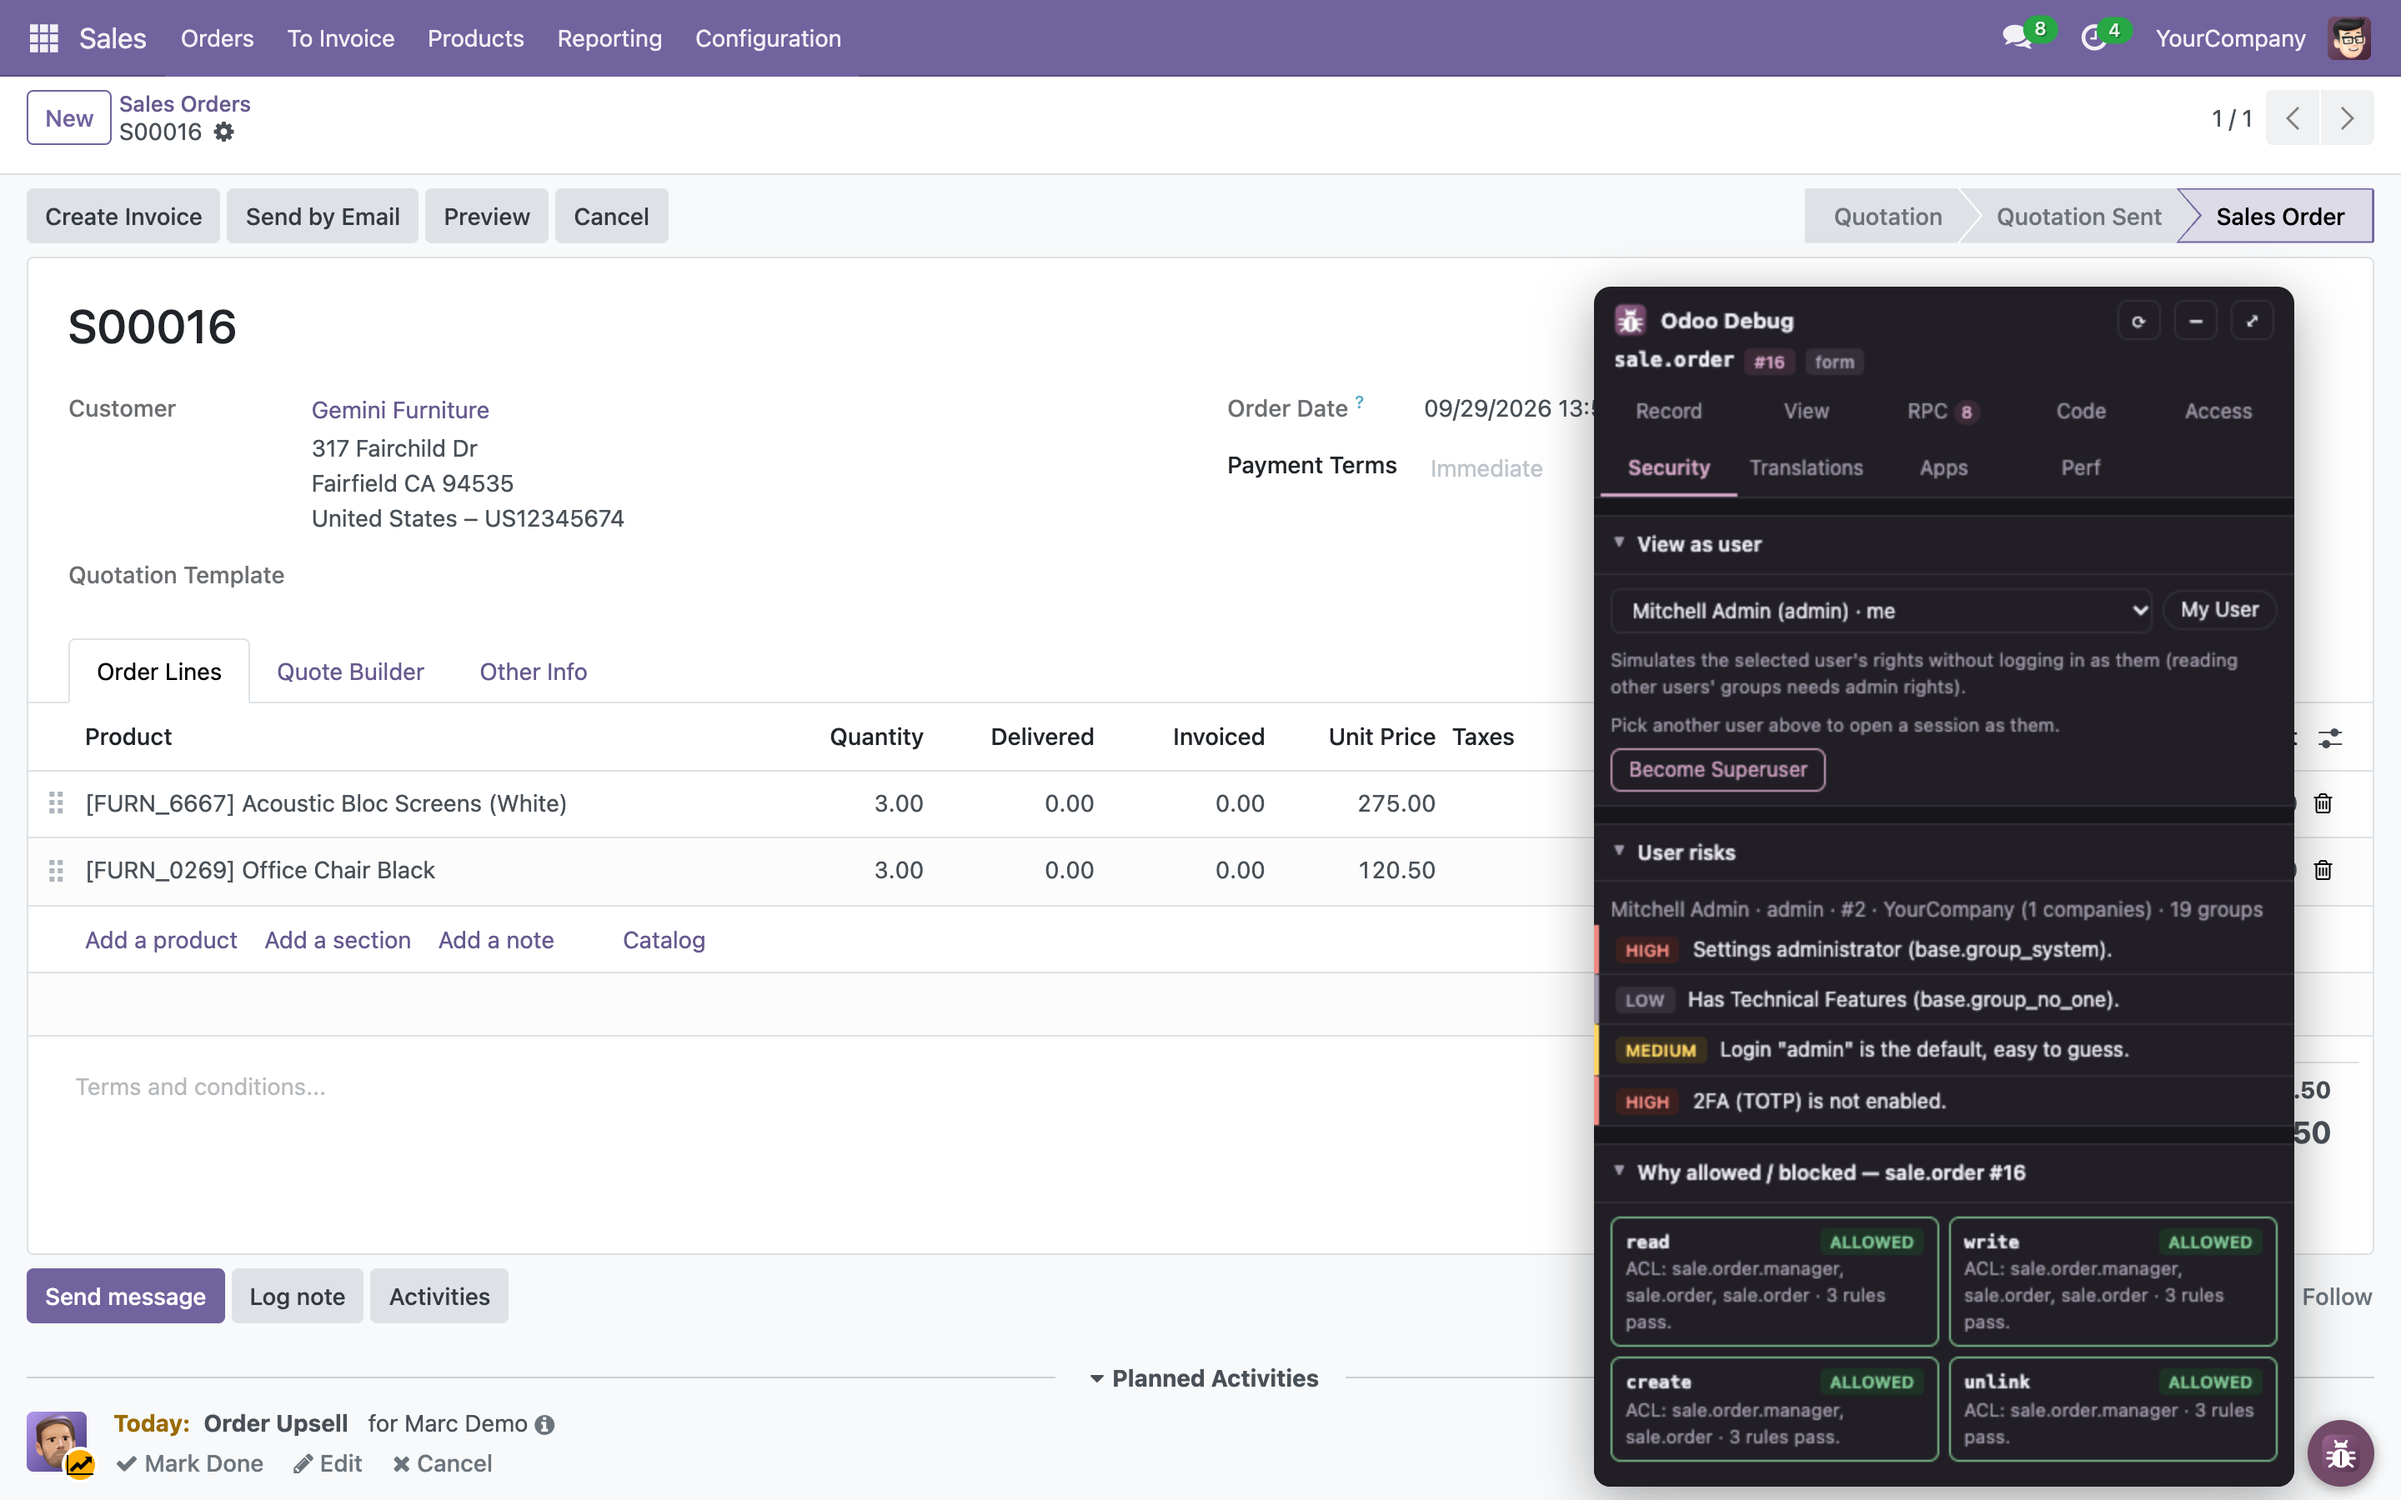
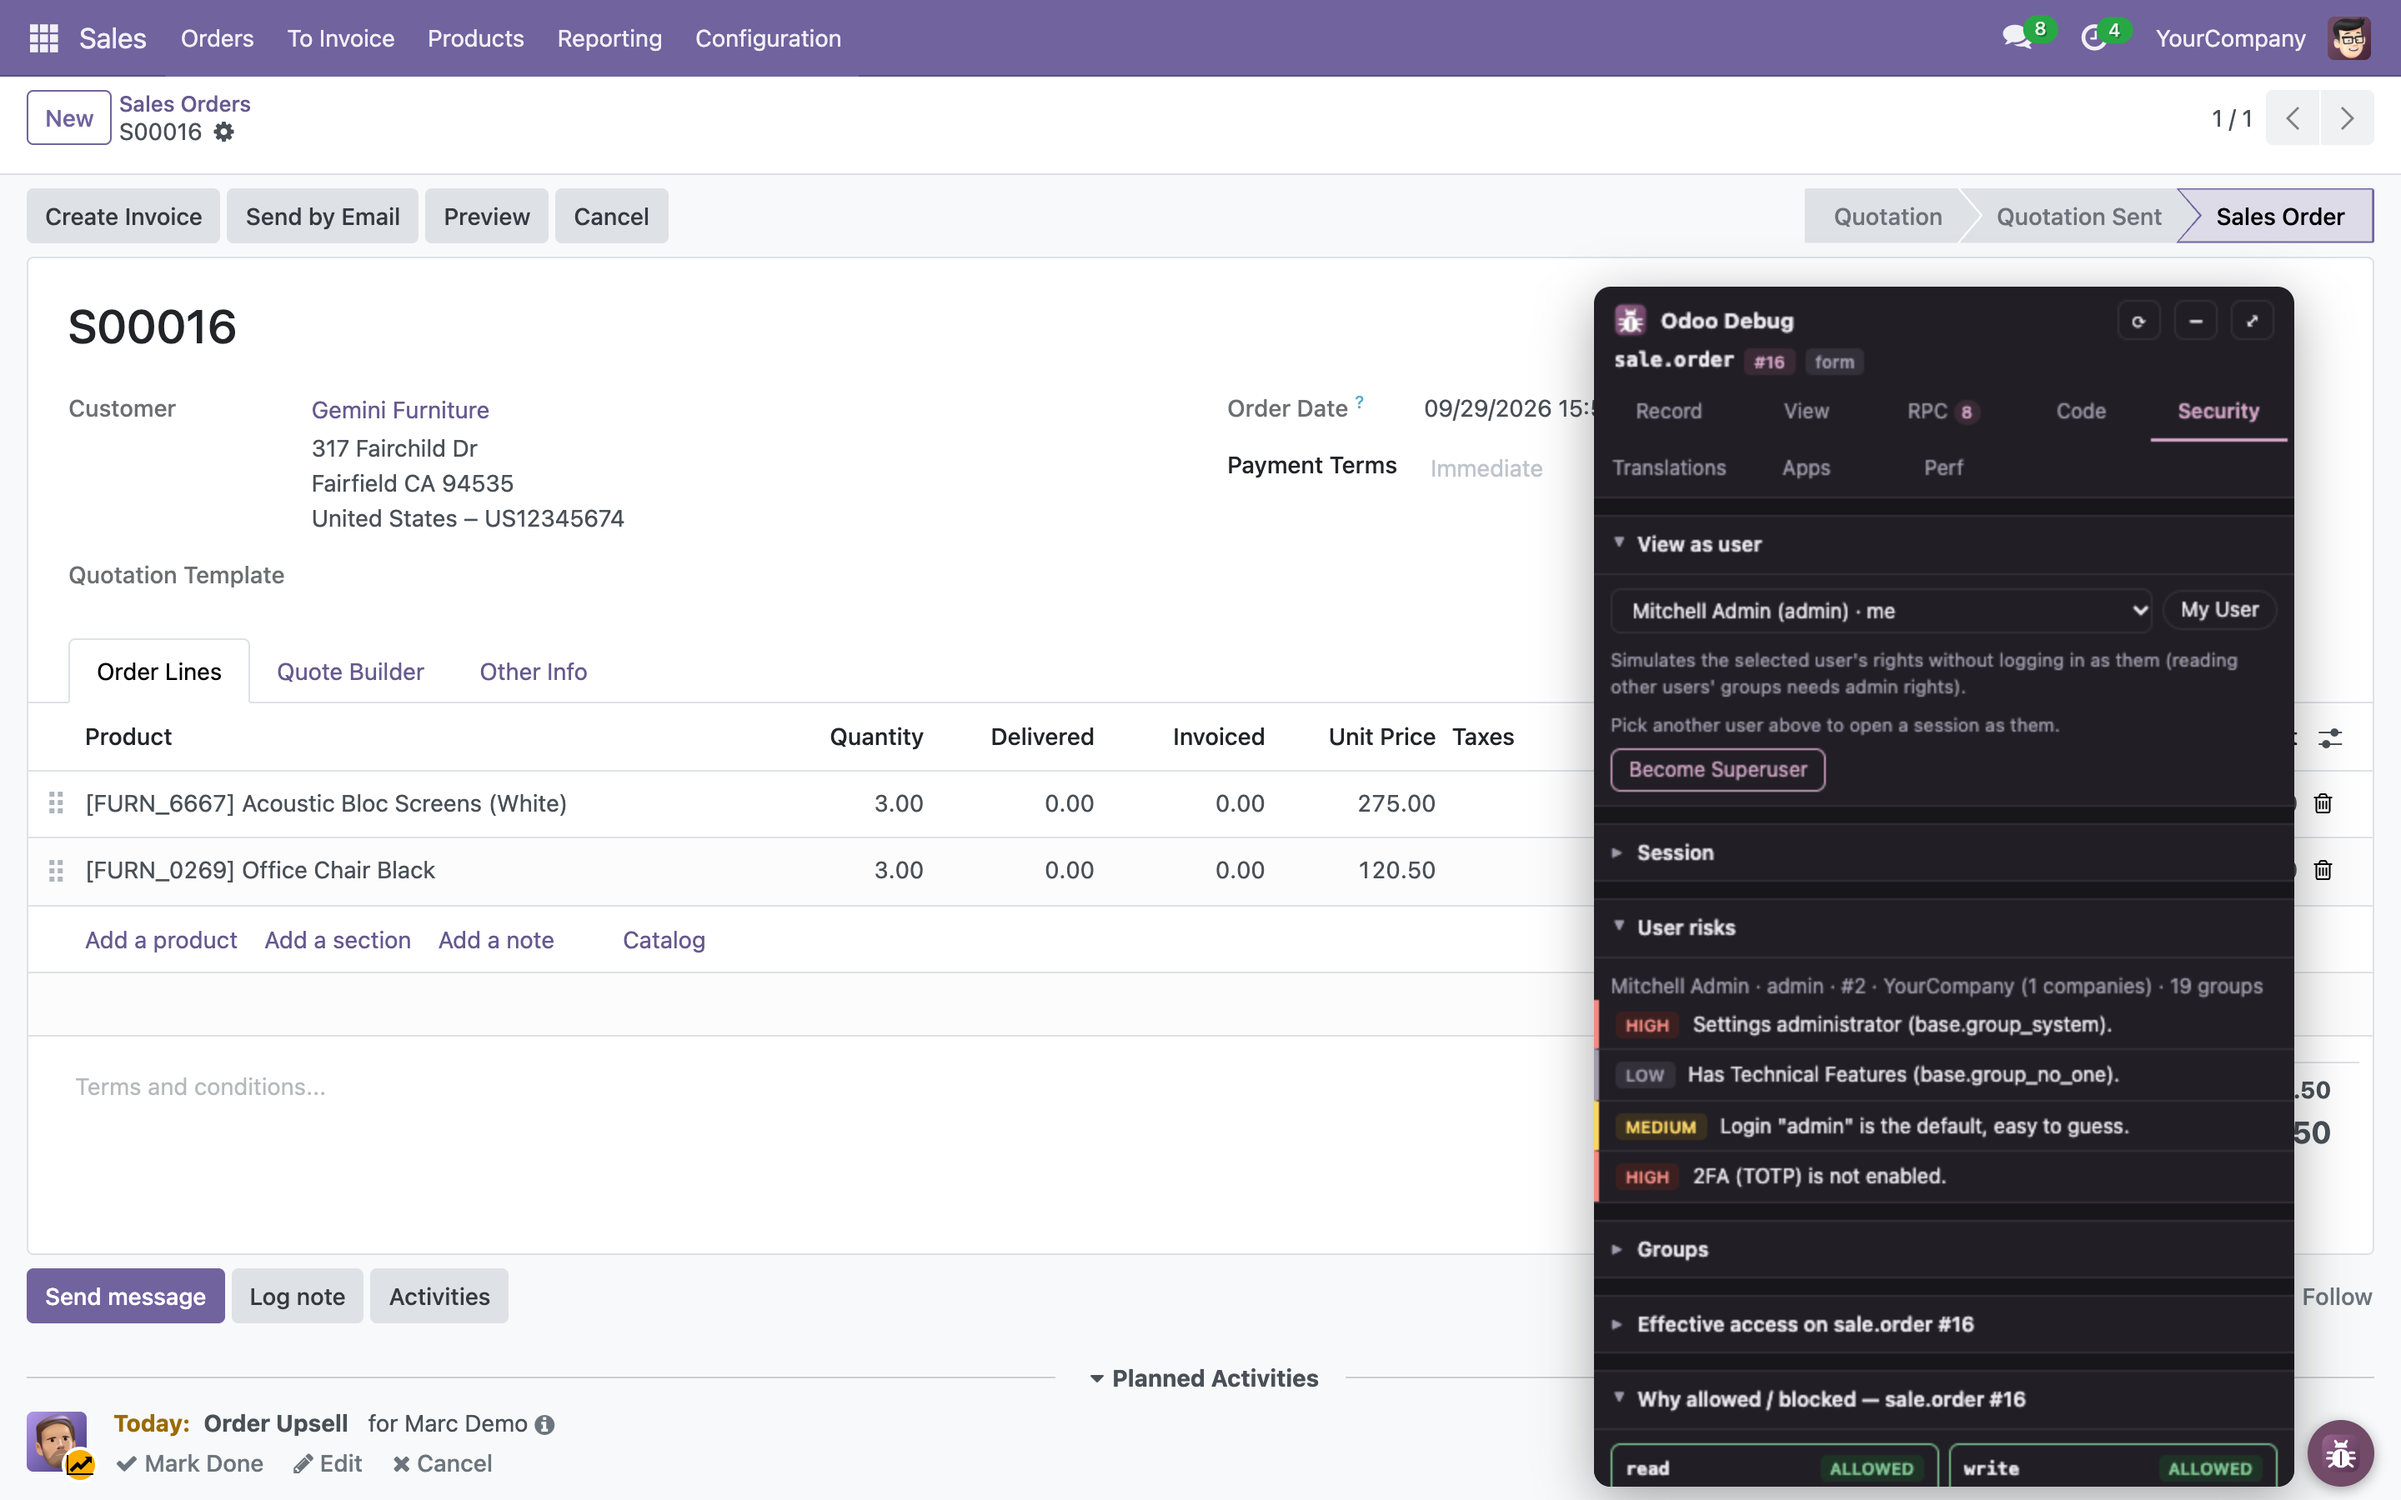
Release 1.1.0: Security screenshots with the Groups card

Changed region(s): [[0.6562, 0.56, 0.9375, 0.9956], [0.6562, 0.3111, 0.7812, 0.3422], [0.9062, 0.2489, 0.9375, 0.3111]]

diff --git a/README.vi.md b/README.vi.md
@@ -55,7 +55,7 @@ Ngoài ra: bấm vào tên field, model hay xmlid trong bảng để copy, và <
 **Record** ở chế độ toàn màn hình: từ 760px trở lên, danh sách thành bảng 2 cột với tiêu đề cố định.
 <img src="website/screenshots/full-record.png" alt="Tab Record toàn màn hình">
 
-**Security**: vì sao một thao tác được phép hay bị chặn, từng rule một, kèm rủi ro của user.
+**Security**: group của user đã chọn (thêm / gỡ), và vì sao một thao tác được phép hay bị chặn, từng rule một.
 <img src="website/screenshots/full-security.png" alt="Tab Security">
 
 **Perf**: các request đã đo, với câu SQL nghi N+1 và các câu chậm nhất của từng request.

diff --git a/README.md b/README.md
@@ -59,7 +59,7 @@ page to copy its technical name.
 **Record** in full screen: from 760px wide, lists become 2-column tables with sticky headers.
 <img src="website/screenshots/full-record.png" alt="Record tab in full screen">
 
-**Security**: why an operation is allowed or blocked, rule by rule, plus user risks.
+**Security**: the picked user's groups (add / remove), and why an operation is allowed or blocked, rule by rule.
 <img src="website/screenshots/full-security.png" alt="Security tab">
 
 **Perf**: profiled requests, with N+1 suspects and the slowest queries of each one.

diff --git a/CHANGELOG.md b/CHANGELOG.md
@@ -2,7 +2,7 @@
 
 All notable changes to this project are documented here. Format: [Keep a Changelog](https://keepachangelog.com/en/1.1.0/), versions: [Semantic Versioning](https://semver.org/). Each release on GitHub uses its section below as release notes.
 
-## [Unreleased]
+## [1.1.0] - 2026-09-29
 
 ### Added
 
